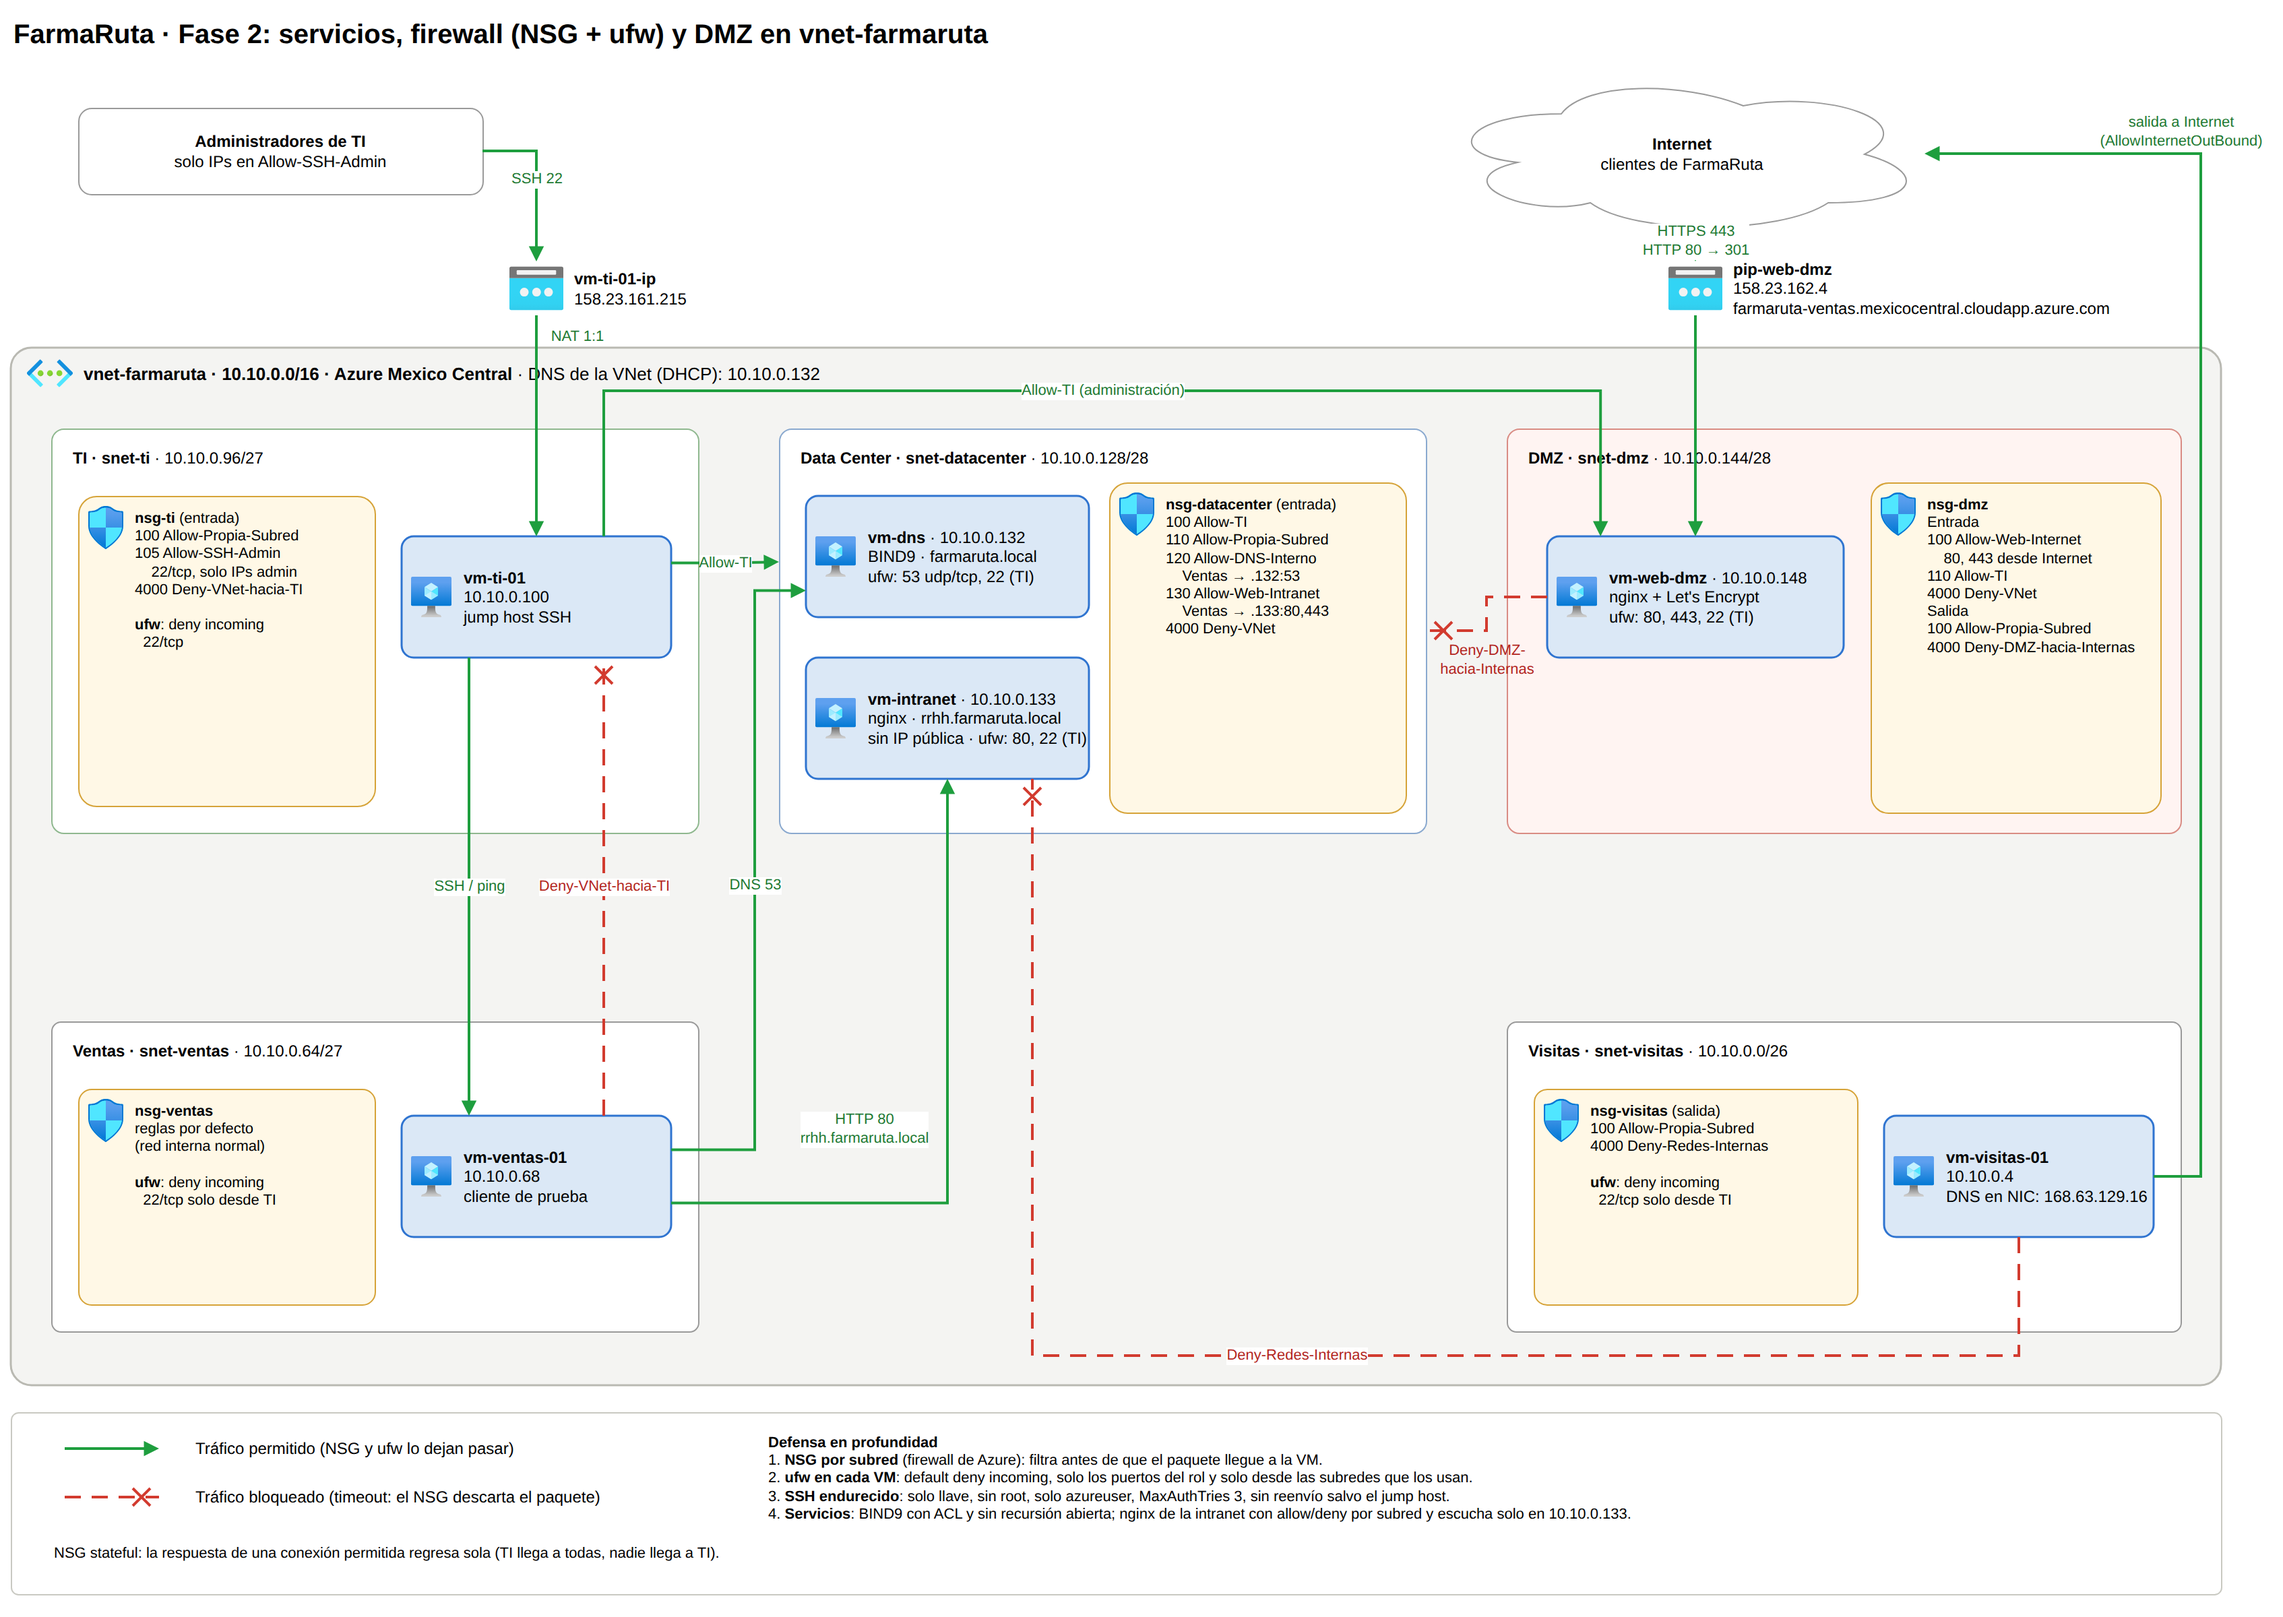
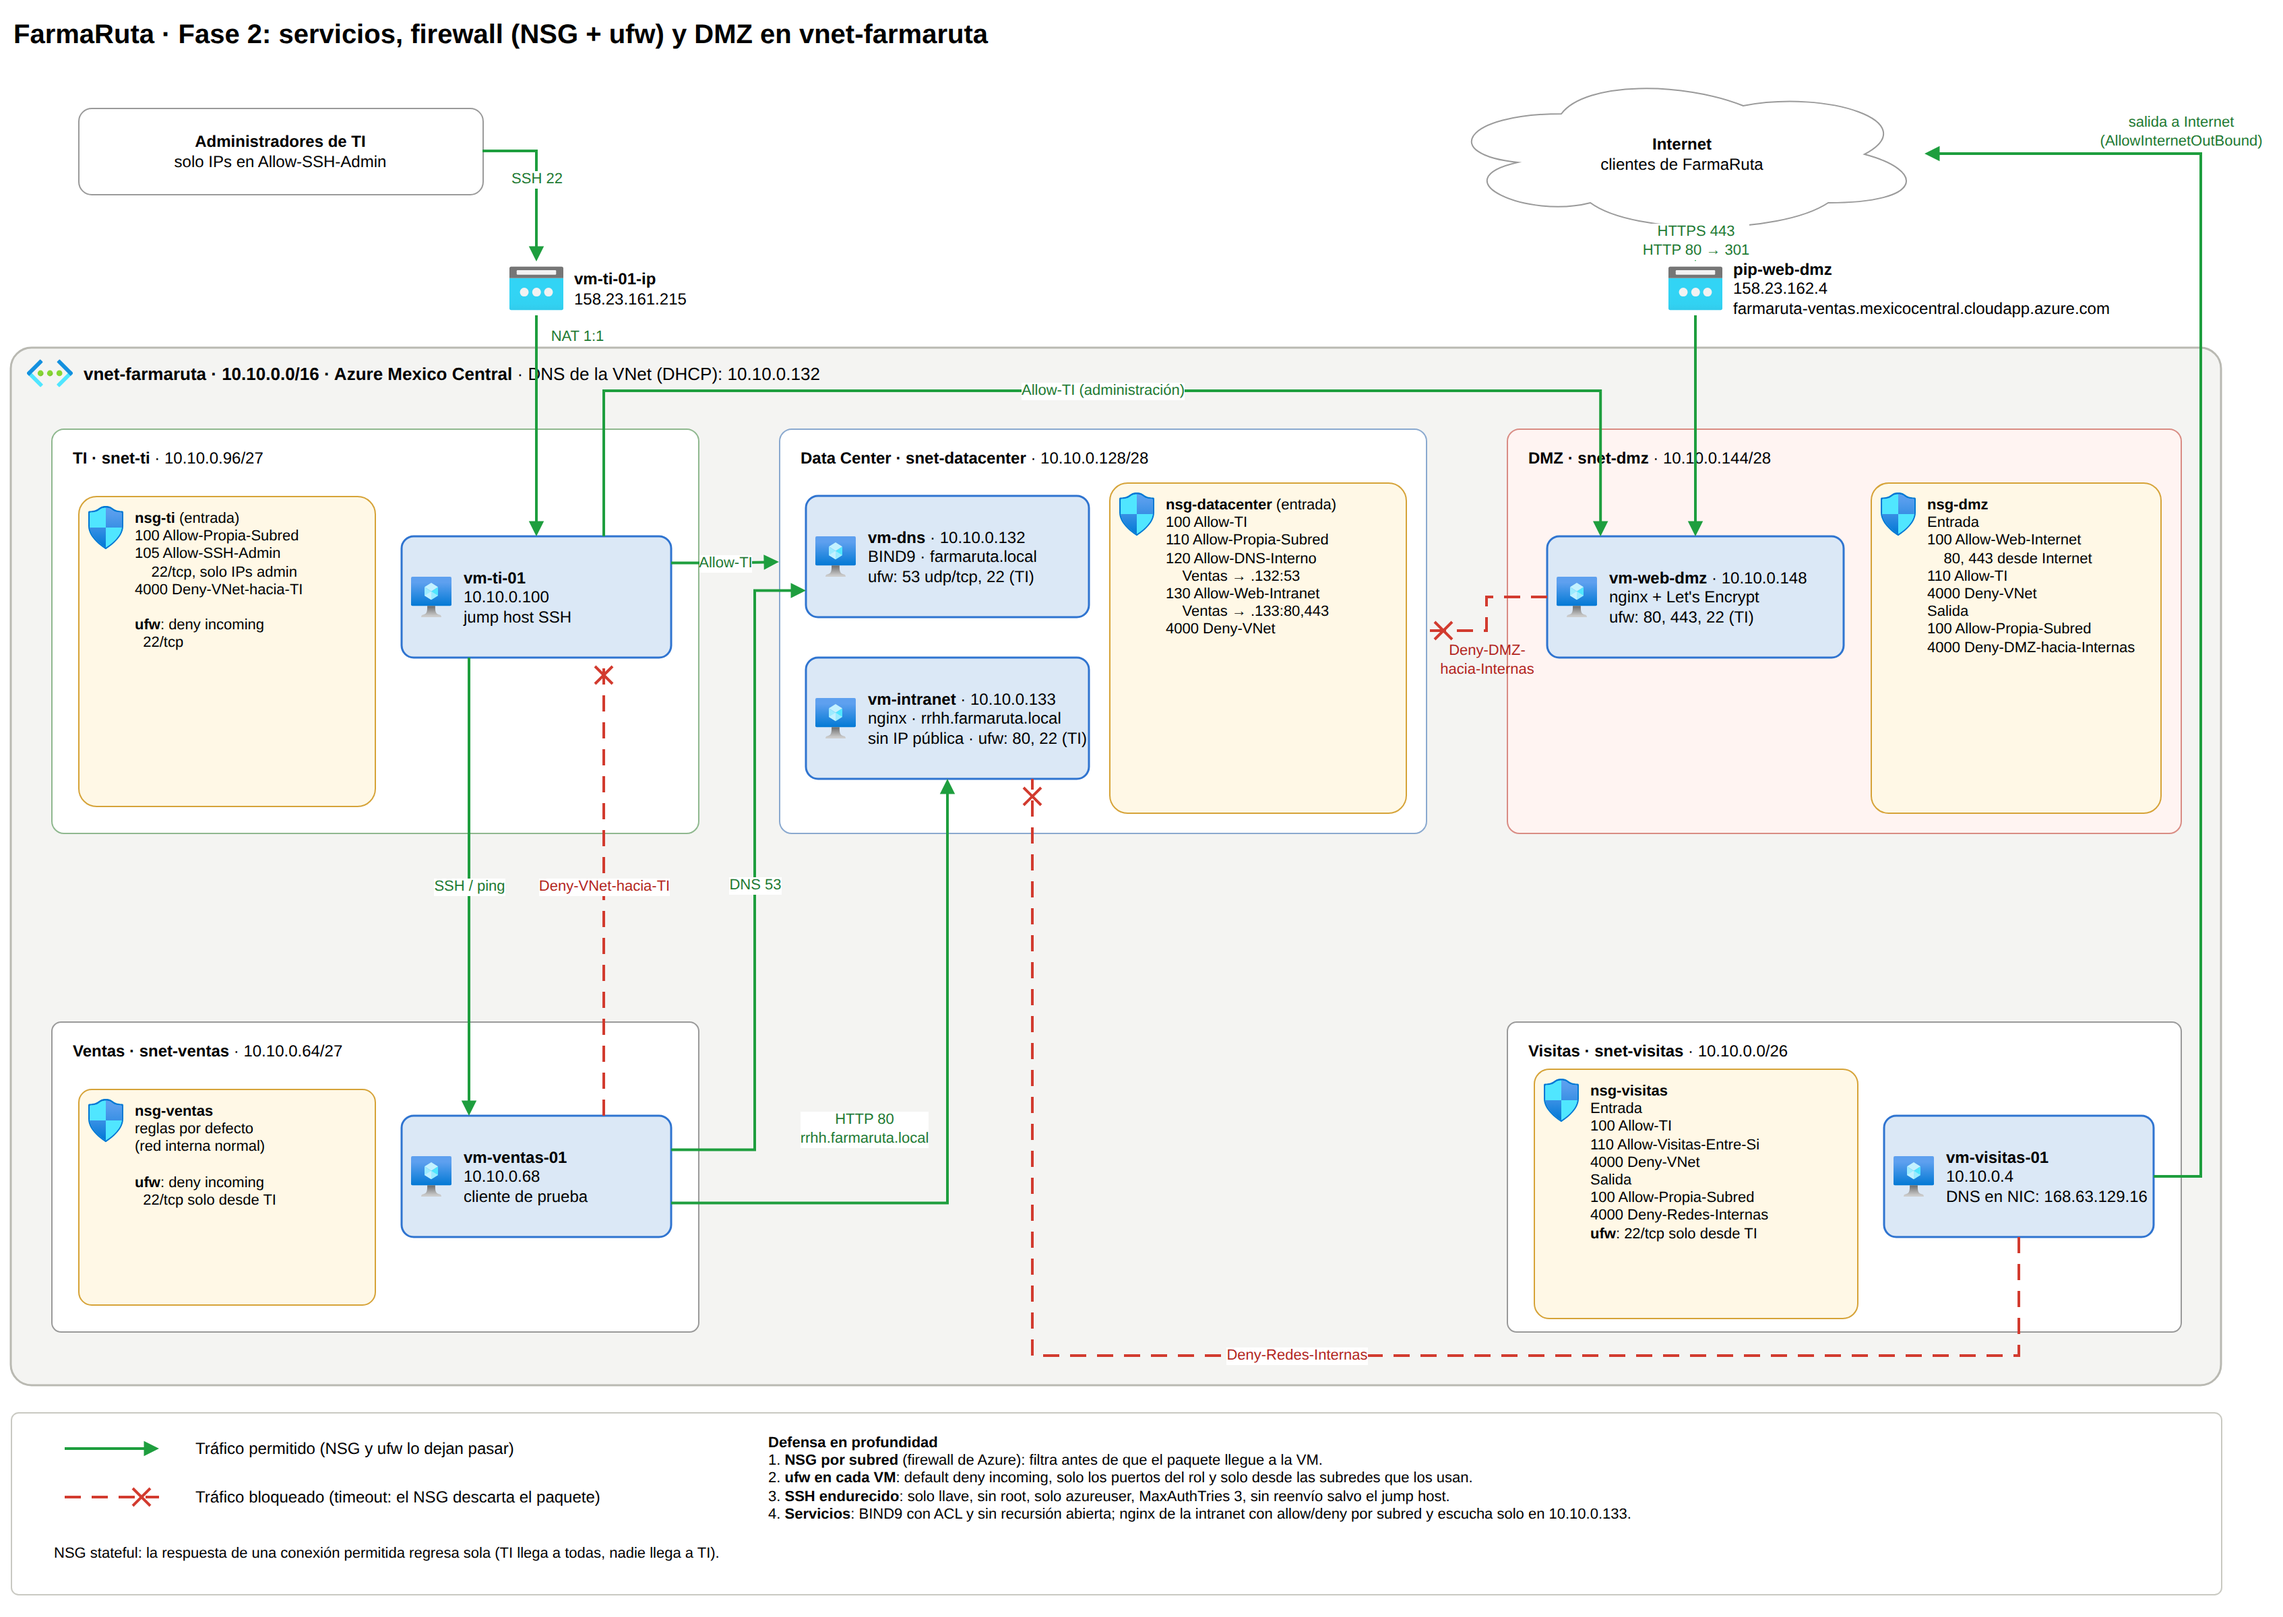
docs(seguridad): correccion de nsg-visitas verificada, diagrama y captura 24

Changed region(s): [[0.6508, 0.6562, 0.8368, 0.8438]]

diff --git a/docs/fase2/seguridad_validacion.md b/docs/fase2/seguridad_validacion.md
@@ -138,14 +138,14 @@ Con las 5 VMs encendidas al mismo tiempo. TCP con `nc -zv -w 3 IP PUERTO` (*succ
 
 Coincide con el comportamiento que pide el enunciado:
 
-- **Visitas** sale a internet pero no llega a ninguna red interna (`nsg-visitas` → `Deny-Redes-Internas`, salida, 4000).
+- **Visitas** sale a internet pero no llega a ninguna red interna (`nsg-visitas` → `Deny-Redes-Internas`, salida, 4000), y ninguna subred interna salvo TI puede iniciar conexiones hacia ella (`Deny-VNet`, entrada, 4000).
 - **TI** llega a todas las subredes; ninguna llega a TI (`nsg-ti` → `Deny-VNet-hacia-TI`, 4000). TI también llega a vm-visitas-01 (ping y 22).
 - La **intranet** responde a Ventas y TI, no a Visitas ni a la DMZ (`nsg-datacenter` → `Allow-Web-Intranet` 130 y `Deny-VNet` 4000), y no existe desde internet porque no tiene IP pública.
 - La **DMZ** no inicia conexiones hacia la red interna (`nsg-dmz` → `Deny-DMZ-hacia-Internas`, salida, 4000).
 
 ¹ Pendiente de `vm-dns` (Daniela). Se corre con los mismos comandos cuando la VM exista: `nc -zv -w 3 10.10.0.132 53` y `nslookup rrhh.farmaruta.local 10.10.0.132`. Esperado: ✅ desde Ventas y TI, ❌ (timeout) desde Visitas y DMZ.
 
-También se probó el sentido contrario hacia Visitas: TI llega (ping y 22), la DMZ no (su NSG le niega la salida) y Ventas sí llega con ping. Eso último no lo cubre la tabla del enunciado y se explica en *Hallazgo: tráfico interno hacia Visitas*.
+También se probó el sentido contrario hacia Visitas: TI llega (ping y 22) y ni Ventas ni la DMZ llegan. En la primera corrida Ventas sí llegaba con ping; se explica y se corrige en *Hallazgo: tráfico interno hacia Visitas*.
 
 **¿Por qué TI llega a Ventas, pero Ventas no llega a TI?** Los NSG son **stateful**: cuando TI inicia la conexión, el NSG de TI deja pasar la respuesta aunque `Deny-VNet-hacia-TI` bloquee lo que **entra** desde la VNet. Cuando la conexión la inicia Ventas, el paquete es nuevo y se descarta.
 
@@ -215,11 +215,42 @@ Solo habilita la **salida**; la entrada desde internet sigue bloqueada (sin IP p
 
 Con todas las VMs encendidas apareció algo que la tabla del enunciado no contempla: desde **vm-ventas-01 el ping a vm-visitas-01 responde**.
 
-`nsg-visitas` solo tiene reglas de **salida** (para que Visitas no llegue a nada interno). De entrada aplica la regla por defecto `AllowVnetInBound` (65000), que deja a cualquier subred de la VNet iniciar conexiones hacia Visitas. El enunciado se cumple (Visitas no llega a las internas), pero lo ideal en una red de invitados es aislarla en los dos sentidos.
+`nsg-visitas` solo tenía reglas de **salida** (para que Visitas no llegue a nada interno). De entrada aplicaba la regla por defecto `AllowVnetInBound` (65000), que dejaba a cualquier subred de la VNet iniciar conexiones hacia Visitas. El enunciado se cumple (Visitas no llega a las internas), pero lo ideal en una red de invitados es aislarla en los dos sentidos.
 
-Lo que ya lo contiene es ufw: en vm-visitas-01 solo se permite 22 desde TI, así que `nc 10.10.0.4 22` desde Ventas da timeout y queda en el log como `[UFW BLOCK] SRC=10.10.0.68 DST=10.10.0.4 ... DPT=22`. El ping pasa porque ufw permite ICMP echo por defecto. Es otro ejemplo de por qué conviene tener las dos capas.
+Lo que ya lo contenía era ufw: en vm-visitas-01 solo se permite 22 desde TI, así que `nc 10.10.0.4 22` desde Ventas da timeout y queda en el log como `[UFW BLOCK] SRC=10.10.0.68 DST=10.10.0.4 ... DPT=22`. El ping pasa porque ufw permite ICMP echo por defecto. Es otro ejemplo de por qué conviene tener las dos capas.
 
-**Recomendación** (se le pasó a Nicolás, que administra los NSG): agregar a `nsg-visitas` dos reglas de entrada, `Allow-TI` (100, origen 10.10.0.96/27) y `Deny-VNet` (4000, origen `VirtualNetwork`), igual que en `nsg-datacenter`. Así TI sigue administrando las VMs de Visitas y ninguna otra subred puede iniciar conexiones hacia ellas. Evidencia en `config/fase2/pruebas/hallazgo_ventas_hacia_visitas.txt` y captura `23_hallazgo_ventas_hacia_visitas.png`.
+**Corrección.** Se agregaron a `nsg-visitas` tres reglas de **entrada**, con el mismo patrón que `nsg-datacenter` y `nsg-dmz` (se le avisó a Nicolás, que administra los NSG, y quedaron también en `02_firewall_nsg.sh` para que no se pierdan si se vuelve a correr el script):
+
+| Prioridad | Nombre | Acción | Origen | Para qué |
+|---|---|---|---|---|
+| 100 | `Allow-TI` | Allow | 10.10.0.96/27 | TI sigue administrando los equipos de Visitas |
+| 110 | `Allow-Visitas-Entre-Si` | Allow | 10.10.0.0/26 | Los dispositivos de visitas se siguen viendo entre sí |
+| 4000 | `Deny-VNet` | Deny | `VirtualNetwork` | Ninguna otra subred interna inicia conexiones hacia Visitas |
+
+```bash
+az network nsg rule create -g rg-farmaruta --nsg-name nsg-visitas -n Allow-TI --priority 100 \
+  --direction Inbound --access Allow --protocol '*' --source-address-prefixes 10.10.0.96/27 \
+  --source-port-ranges '*' --destination-address-prefixes '*' --destination-port-ranges '*'
+az network nsg rule create -g rg-farmaruta --nsg-name nsg-visitas -n Allow-Visitas-Entre-Si --priority 110 \
+  --direction Inbound --access Allow --protocol '*' --source-address-prefixes 10.10.0.0/26 \
+  --source-port-ranges '*' --destination-address-prefixes '*' --destination-port-ranges '*'
+az network nsg rule create -g rg-farmaruta --nsg-name nsg-visitas -n Deny-VNet --priority 4000 \
+  --direction Inbound --access Deny --protocol '*' --source-address-prefixes VirtualNetwork \
+  --source-port-ranges '*' --destination-address-prefixes '*' --destination-port-ranges '*'
+```
+
+**Verificación después del cambio:**
+
+| Prueba | Antes | Después |
+|---|---|---|
+| Ventas → Visitas, ping | ✅ responde | ❌ 100 % de pérdida |
+| Ventas → Visitas, 22/tcp | ❌ lo bloquea ufw (`[UFW BLOCK]`) | ❌ lo bloquea el NSG; ya no llega a la VM (0 líneas `[UFW BLOCK]`) |
+| TI → Visitas, ping y 22/tcp | ✅ | ✅ |
+| SSH de administración a vm-visitas-01 saltando por vm-ti-01 | ✅ | ✅ |
+| Visitas → internet | ✅ | ✅ (200) |
+| Visitas → Ventas, ping | ❌ | ❌ |
+
+Ahora Visitas queda aislada en los dos sentidos: el NSG es la primera barrera y ufw queda como respaldo. Evidencia en `config/fase2/pruebas/hallazgo_ventas_hacia_visitas.txt` (antes), `config/fase2/pruebas/correccion_entrada_visitas.txt` (después) y capturas `23_hallazgo_ventas_hacia_visitas.png` y `24_correccion_entrada_visitas.png`.
 
 ## Archivos de configuración
 
@@ -246,6 +277,7 @@ Lo que ya lo contiene es ufw: en vm-visitas-01 solo se permite 22 desde TI, así
 | 21 | `ufw_bloquea_puerto_no_autorizado` | Puerto 8080 bloqueado por ufw aunque el NSG lo permite, con el log `[UFW BLOCK]` |
 | 22 | `pruebas_desde_internet` | 301 → HTTPS, 22 cerrado en la DMZ, SSH sin contraseña ni root |
 | 23 | `hallazgo_ventas_hacia_visitas` | Ping de Ventas a Visitas pasa por `AllowVnetInBound`; el TCP lo bloquea ufw |
+| 24 | `correccion_entrada_visitas` | Con las reglas de entrada de `nsg-visitas`, Ventas ya no llega; TI e internet siguen funcionando |
 
 ## Tiempo de implementación
 
@@ -253,7 +285,7 @@ Lo que ya lo contiene es ufw: en vm-visitas-01 solo se permite 22 desde TI, así
 |---|---|
 | VMs de prueba y cuota: análisis, Spot, cambio a B1s de los servidores, salida a internet | 1.5 h |
 | Hardening: script, ufw, SSH y servicios en 5 VMs, antes/después | 1.5 h |
-| Pruebas: nmap, matriz desde 4 subredes, desde internet, defensa en profundidad | 1.5 h |
+| Pruebas: nmap, matriz desde 4 subredes, desde internet, defensa en profundidad, corrección de `nsg-visitas` | 2 h |
 | Diagrama de red actualizado | 1 h |
 | Sección del reporte y capturas | 1 h |
-| **Total** | **6.5 h** |
+| **Total** | **7 h** |
